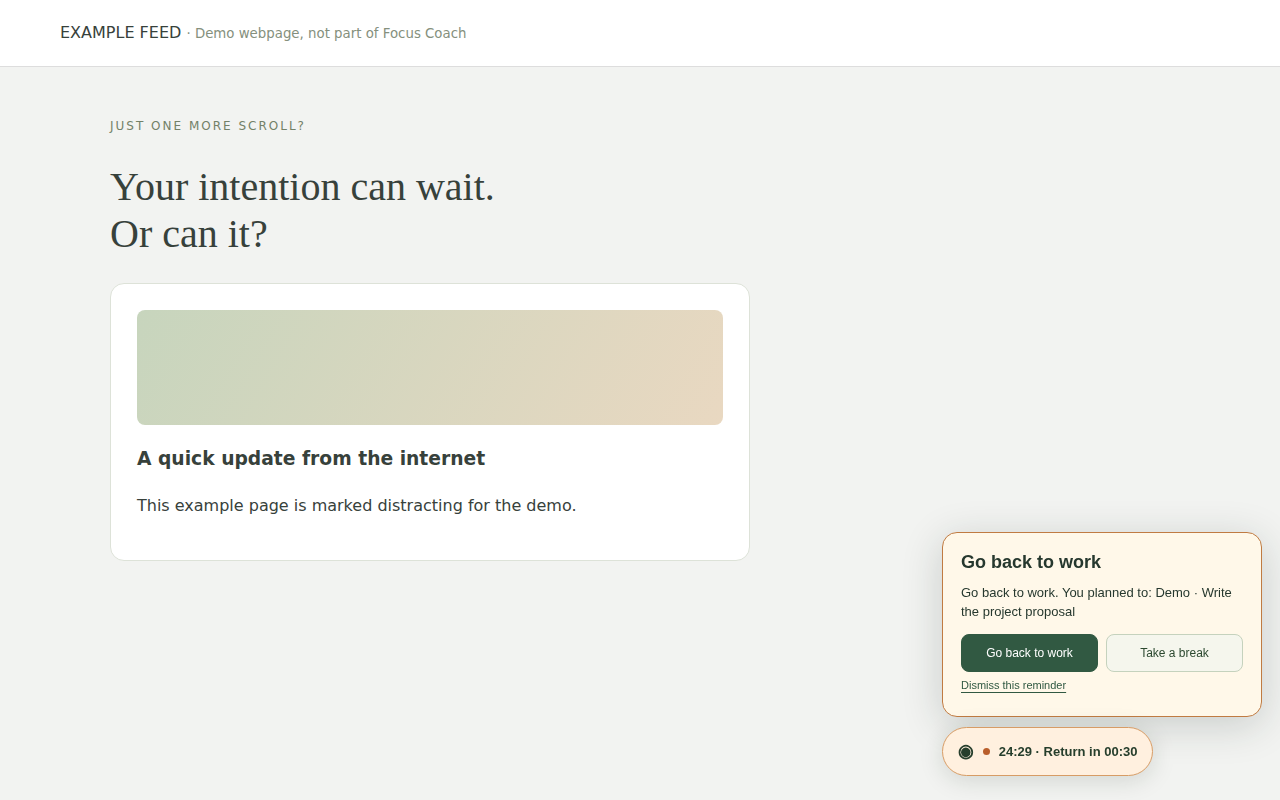
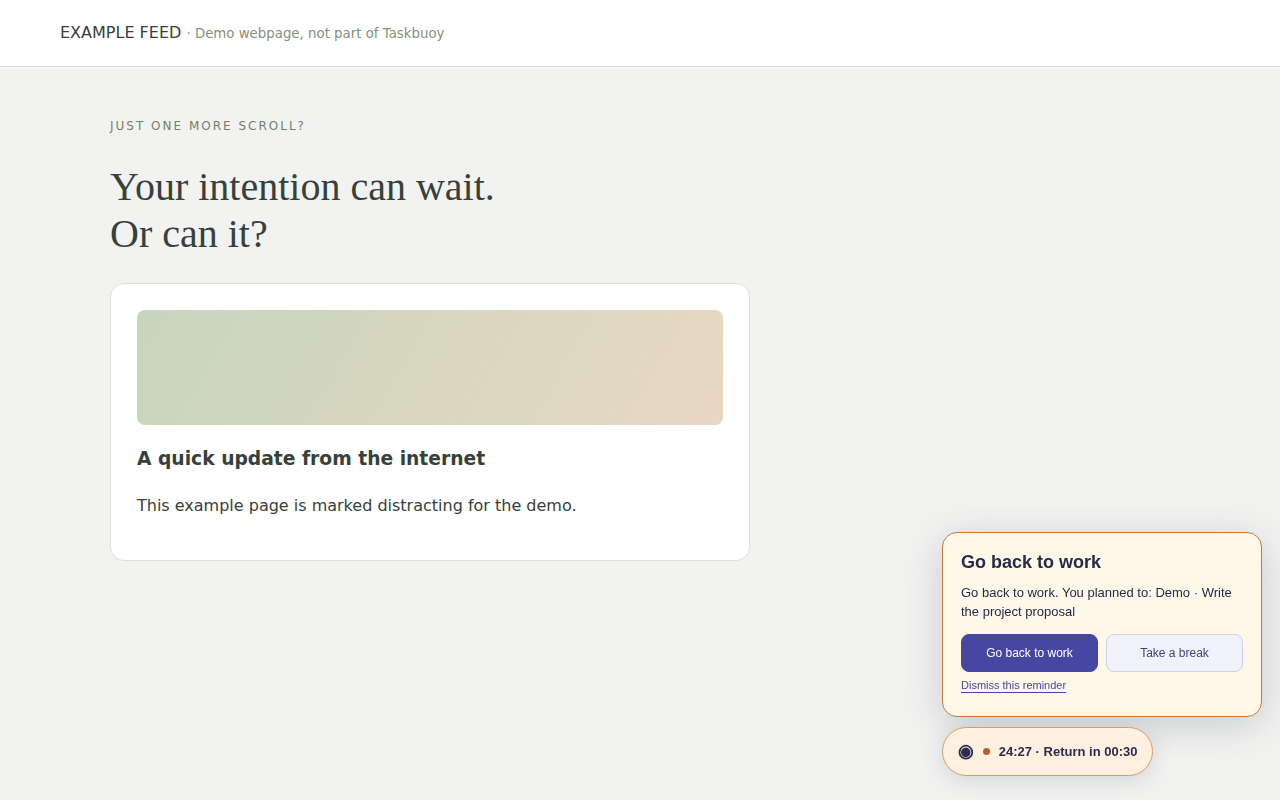
Refresh README screenshots from verified Taskbuoy interface

Changed region(s): [[0.75, 0.7812, 0.9375, 0.875], [0.75, 0.6875, 0.8438, 0.7188], [0.2812, 0.0312, 0.375, 0.0625]]

diff --git a/README.md b/README.md
@@ -41,4 +41,4 @@ Motivational videos connect to the hosted player and YouTube. Playback depends o
 
 Run `npm test` for the automated suite.
 
-[Privacy policy](extension/privacy.html) · [Release notes & known limits](store/final-release-notes.txt) · [Browser checks](https://github.com/hibaa8/focus-coach/actions/runs/45000430621)
+[Privacy policy](extension/privacy.html) · [Release notes & known limits](store/final-release-notes.txt) · [Browser checks](https://github.com/hibaa8/focus-coach/actions/runs/45054421535)
